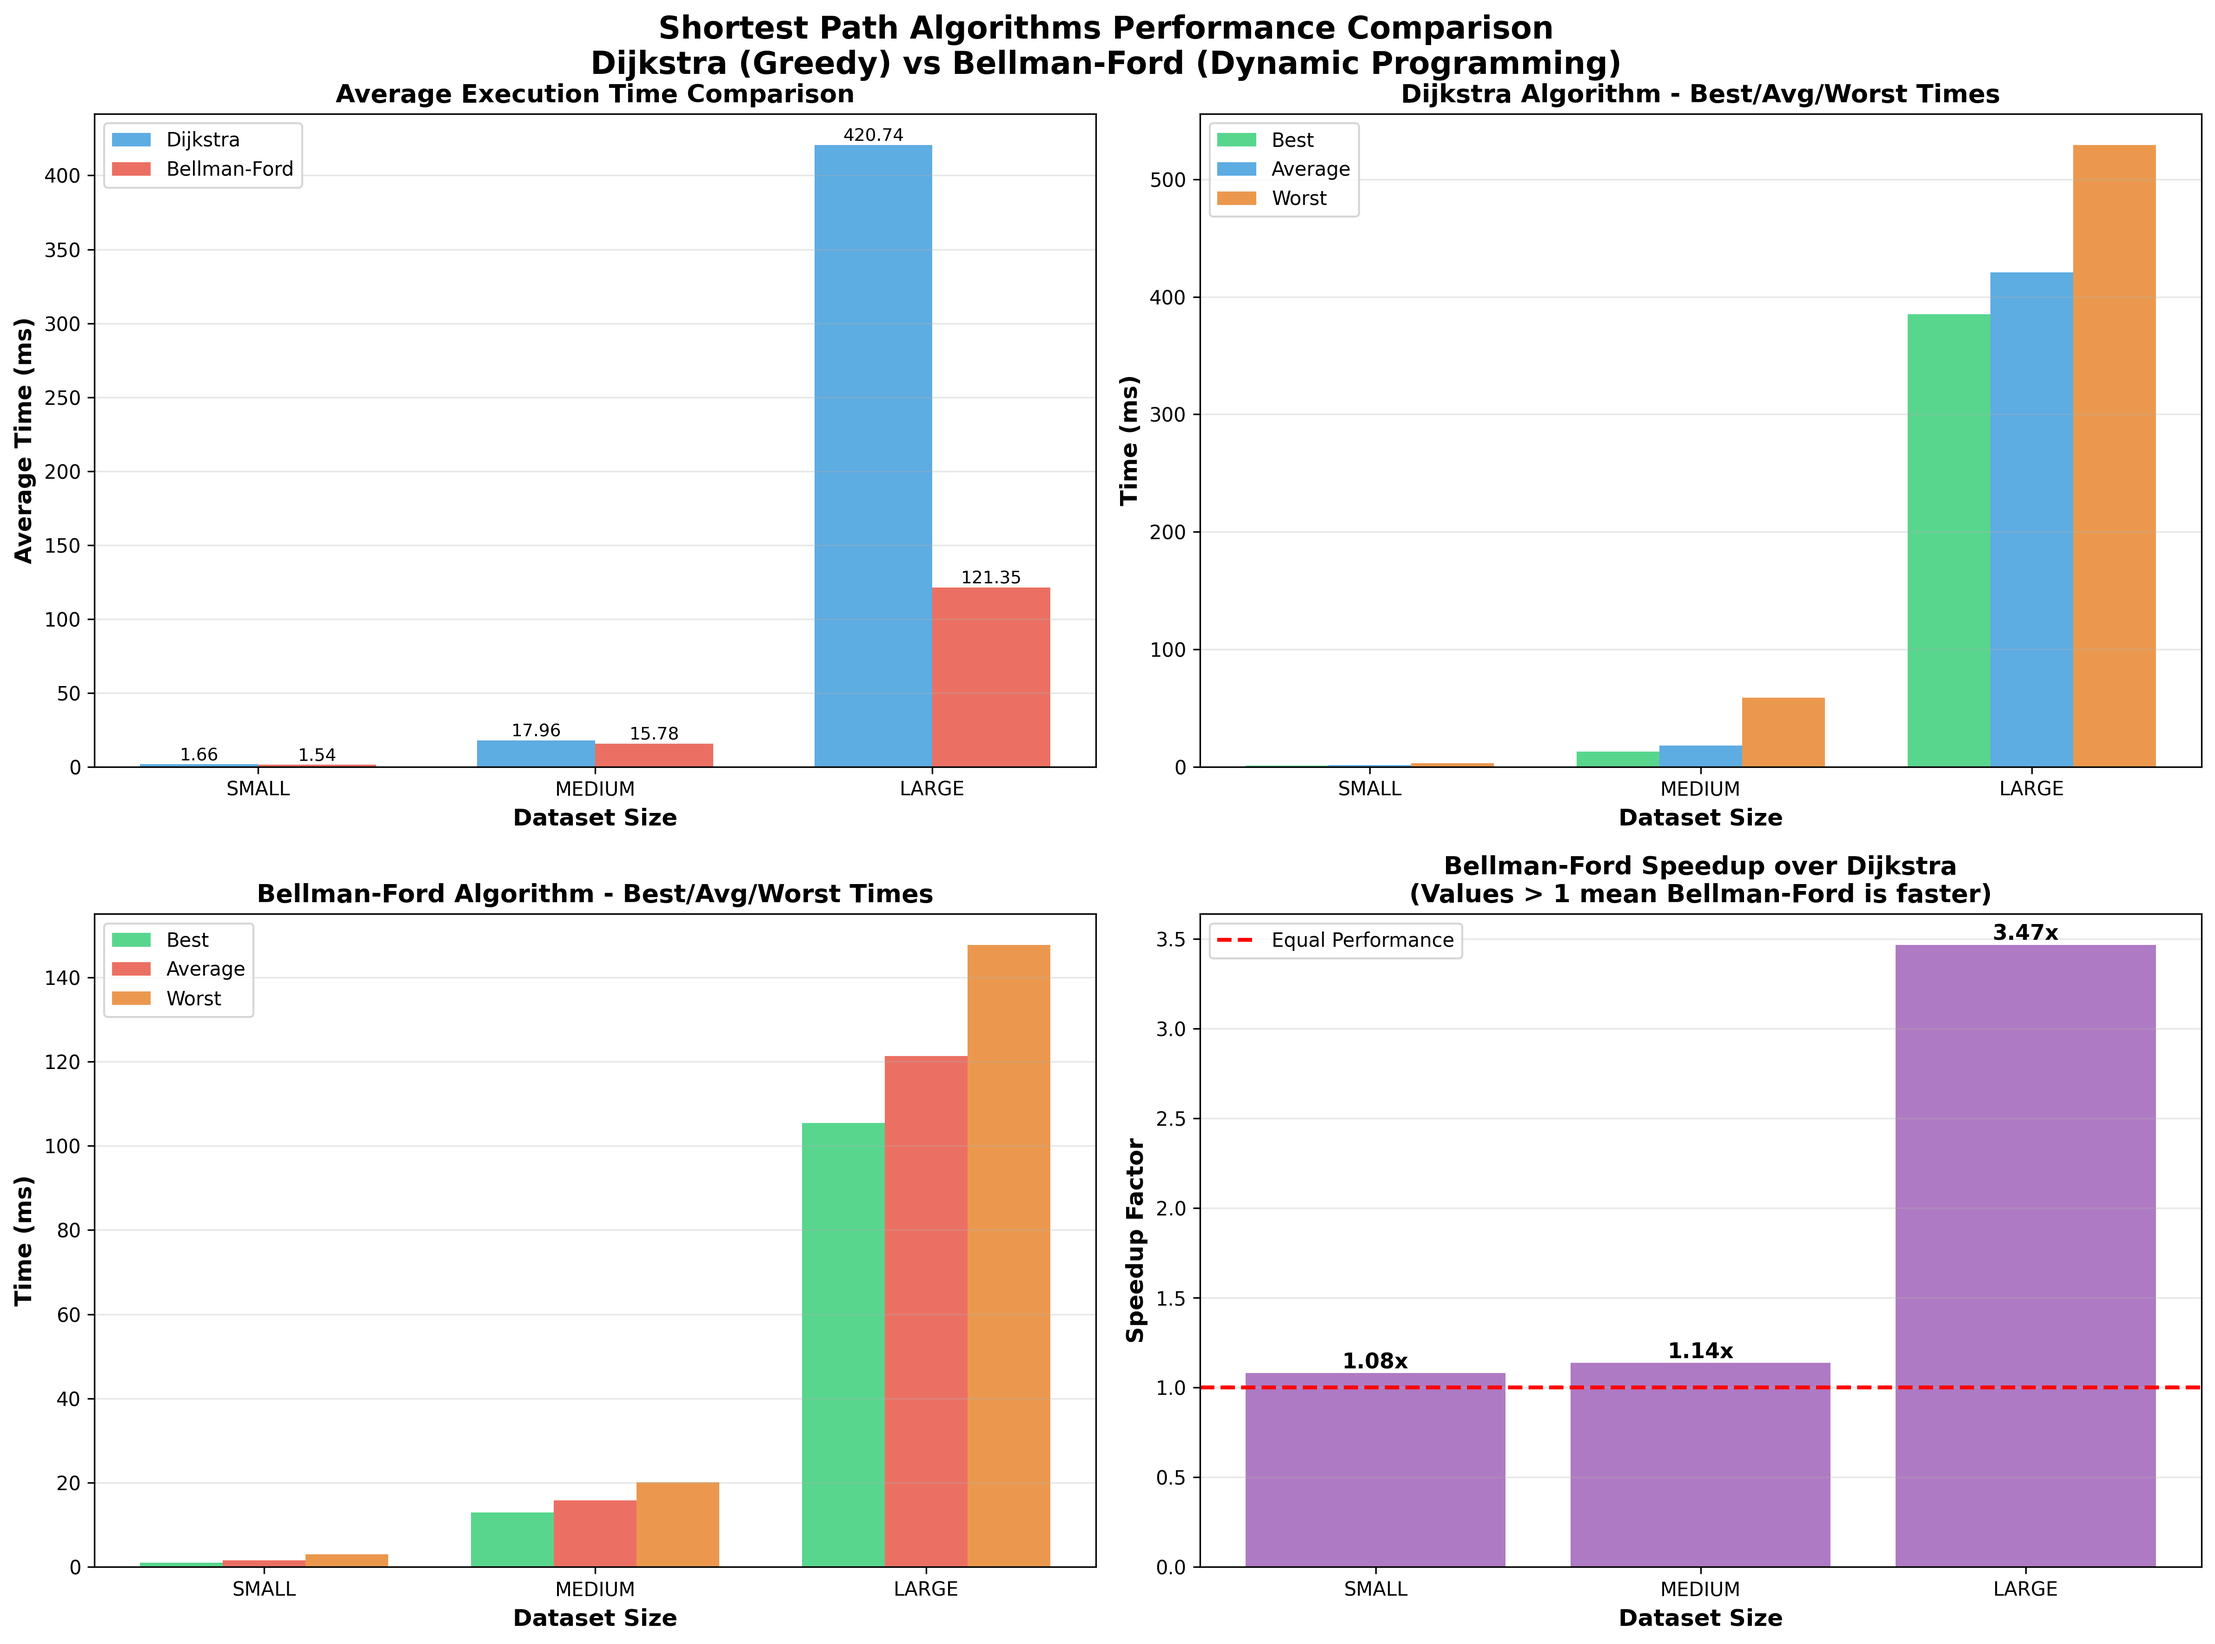
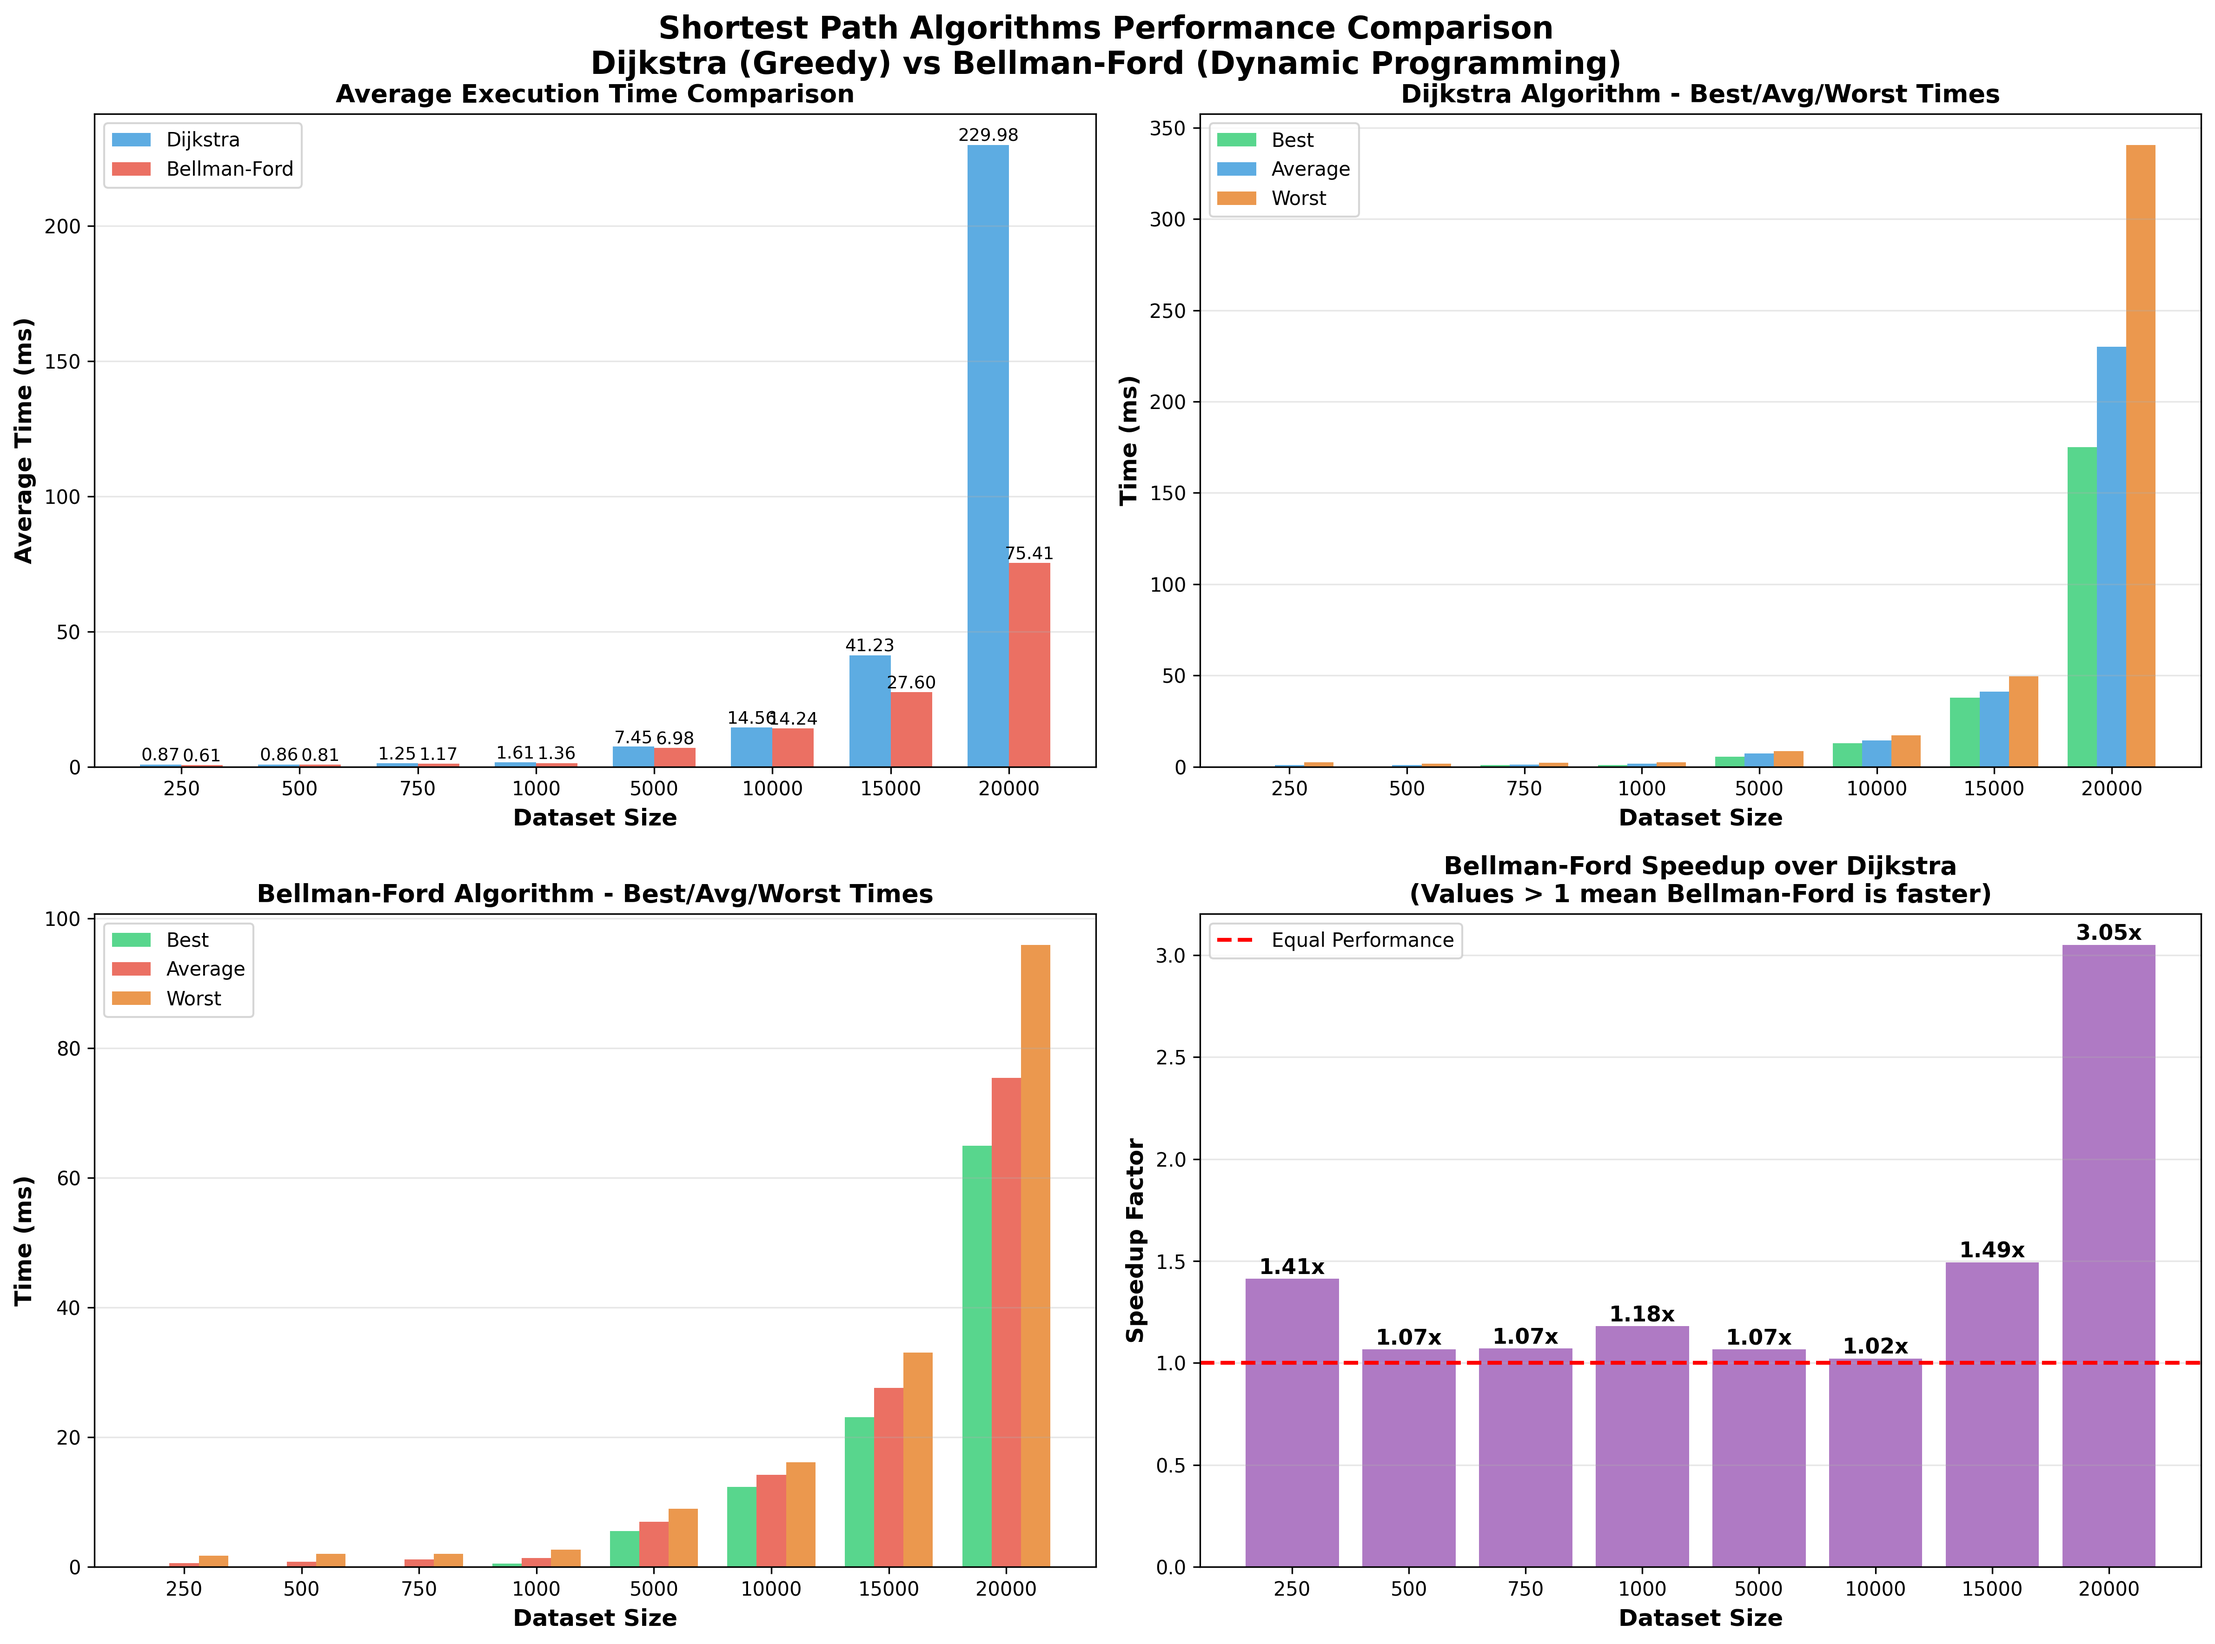
Resolved some issues in the generate_visualizations.py file

diff --git a/generate_visualizations.py b/generate_visualizations.py
@@ -45,8 +45,25 @@ def create_comparison_charts(results):
     Args:
         results: List of performance results
     """
-    # Organize data
-    datasets = ['SMALL', 'MEDIUM', 'LARGE']
+    # Organize data - extract unique dataset names dynamically
+    dataset_names = []
+    seen_datasets = set()
+    for result in results:
+        dataset = result['dataset']
+        if dataset not in seen_datasets:
+            dataset_names.append(dataset)
+            seen_datasets.add(dataset)
+    
+    # Group by dataset and algorithm
+    data_by_dataset = {}
+    for dataset in dataset_names:
+        data_by_dataset[dataset] = {'Dijkstra': None, 'Bellman-Ford': None}
+        for result in results:
+            if result['dataset'] == dataset:
+                data_by_dataset[dataset][result['algorithm']] = result
+    
+    # Extract lists for plotting
+    datasets = [d.replace('dijkstra_bellman_', '').replace('_dataset.csv', '').upper() for d in dataset_names]
     dijkstra_best = []
     dijkstra_avg = []
     dijkstra_worst = []
@@ -54,17 +71,18 @@ def create_comparison_charts(results):
     bellman_avg = []
     bellman_worst = []
     
-    for dataset in datasets:
-        for result in results:
-            if dataset.lower() in result['dataset'].lower():
-                if result['algorithm'] == 'Dijkstra':
-                    dijkstra_best.append(result['best_time'])
-                    dijkstra_avg.append(result['average_time'])
-                    dijkstra_worst.append(result['worst_time'])
-                elif result['algorithm'] == 'Bellman-Ford':
-                    bellman_best.append(result['best_time'])
-                    bellman_avg.append(result['average_time'])
-                    bellman_worst.append(result['worst_time'])
+    for dataset in dataset_names:
+        dijk_data = data_by_dataset[dataset]['Dijkstra']
+        bell_data = data_by_dataset[dataset]['Bellman-Ford']
+        
+        if dijk_data:
+            dijkstra_best.append(dijk_data['best_time'])
+            dijkstra_avg.append(dijk_data['average_time'])
+            dijkstra_worst.append(dijk_data['worst_time'])
+        if bell_data:
+            bellman_best.append(bell_data['best_time'])
+            bellman_avg.append(bell_data['average_time'])
+            bellman_worst.append(bell_data['worst_time'])
     
     # Create figure with multiple subplots
     fig, axes = plt.subplots(2, 2, figsize=(16, 12))
@@ -234,7 +252,7 @@ def create_results_table_image(results):
             else:
                 cell.set_facecolor('#ffffff')
     
-    plt.title('Performance Results Summary', fontsize=16, fontweight='bold', pad=20)
+    # plt.title('Performance Results Summary', fontsize=16, fontweight='bold', pad=20)
     plt.savefig('results_table.png', dpi=300, bbox_inches='tight')
     print("✓ Saved: results_table.png")
     plt.close()
